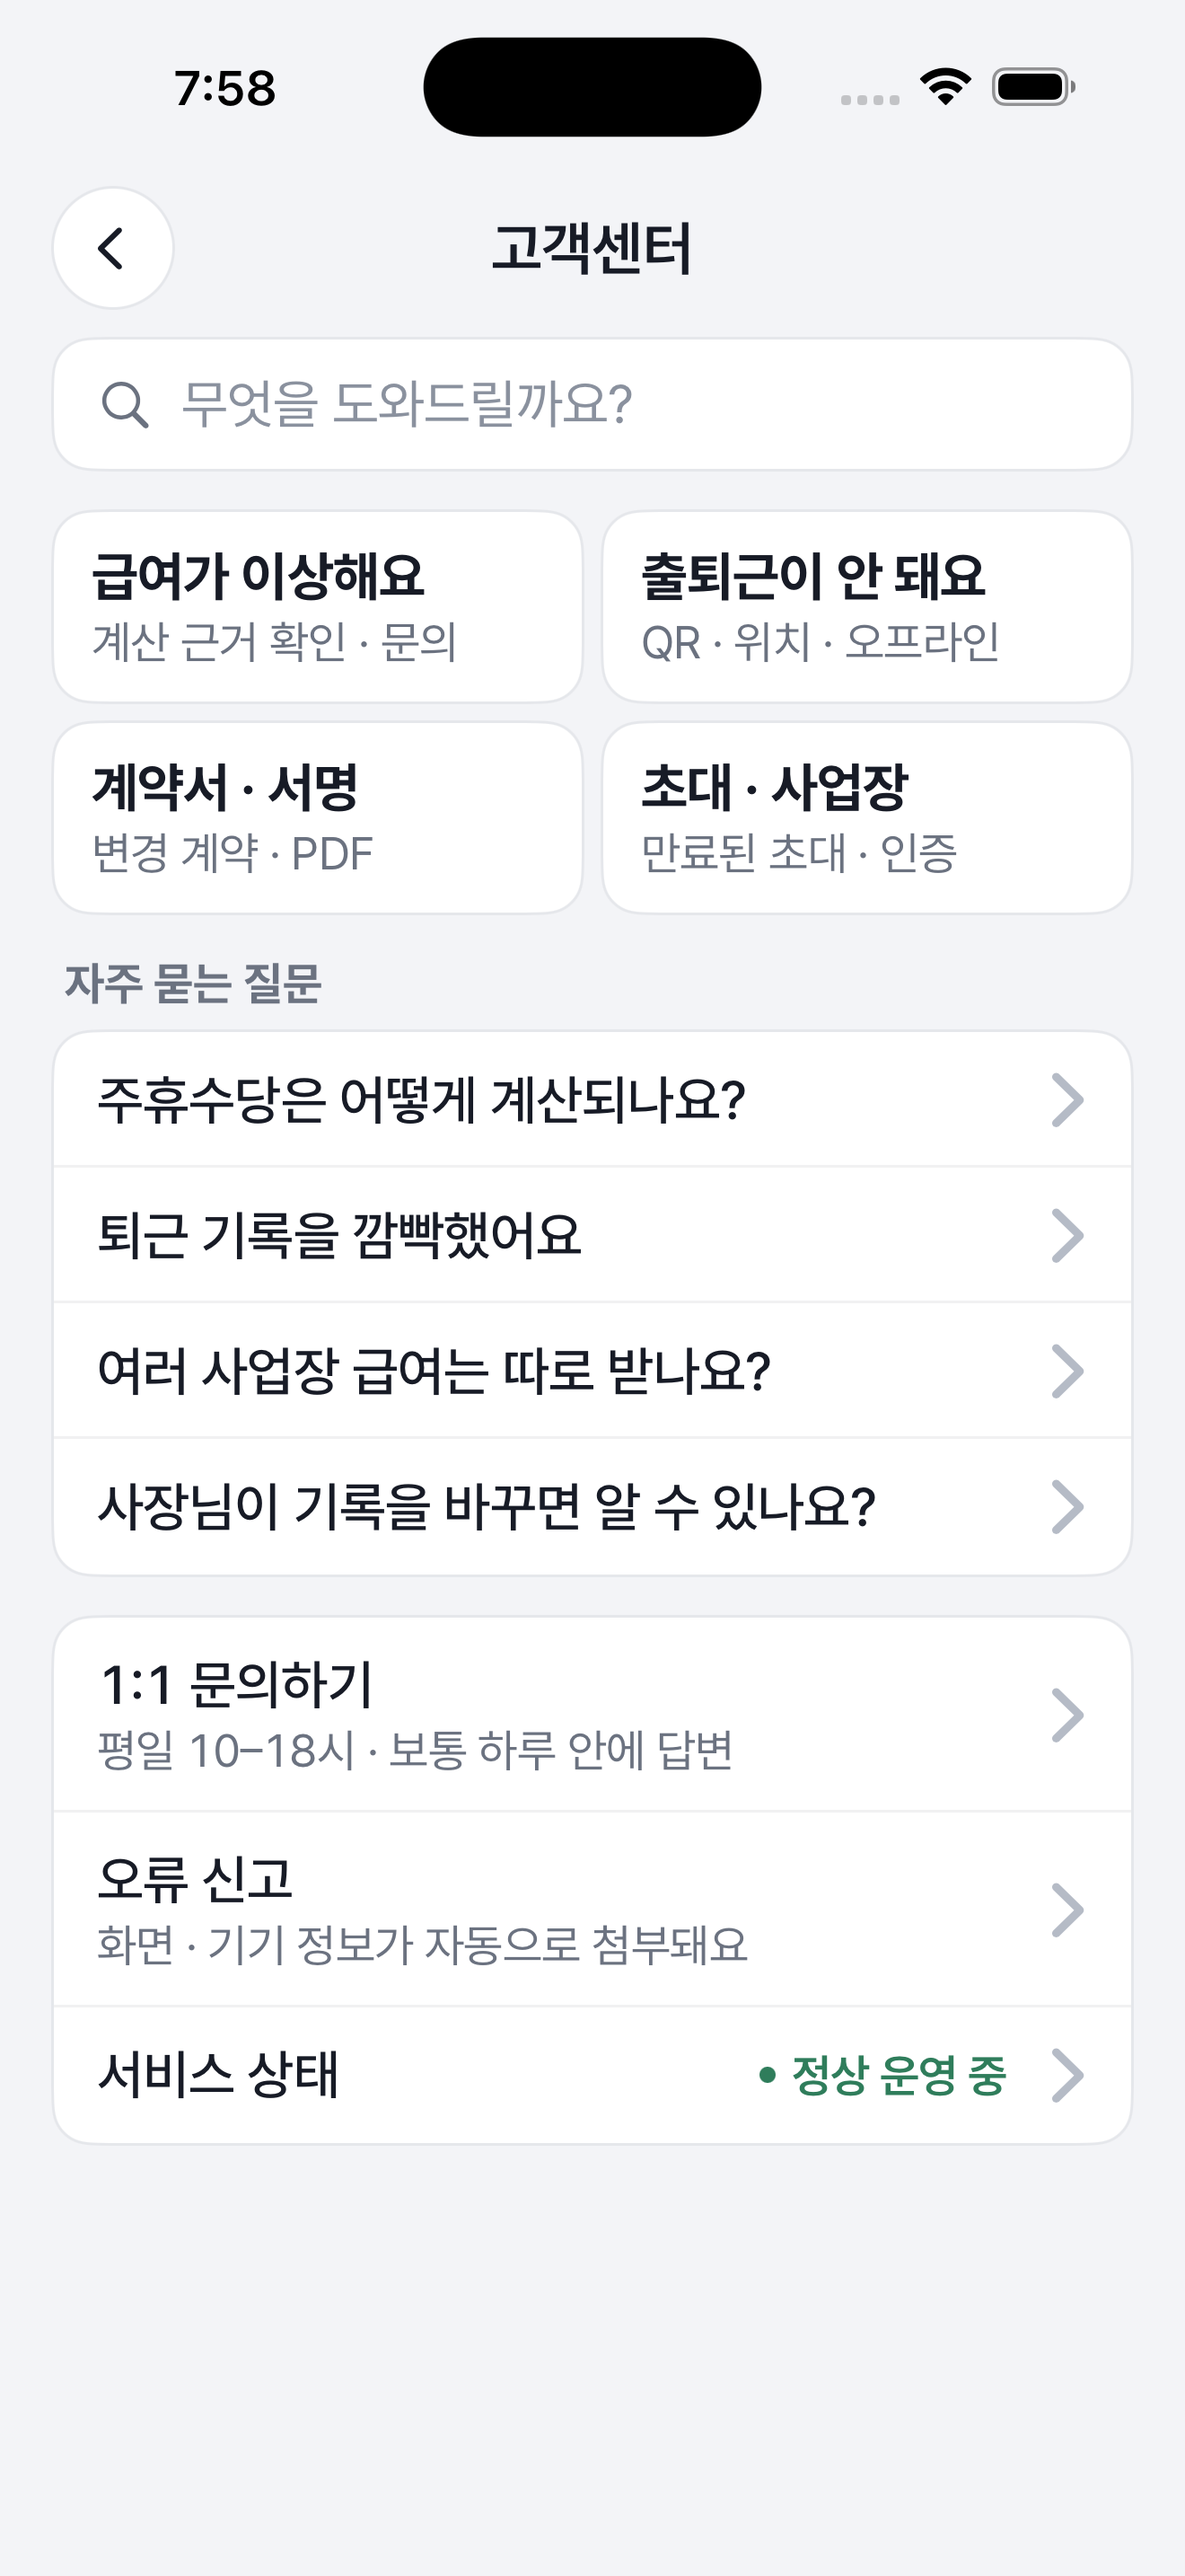
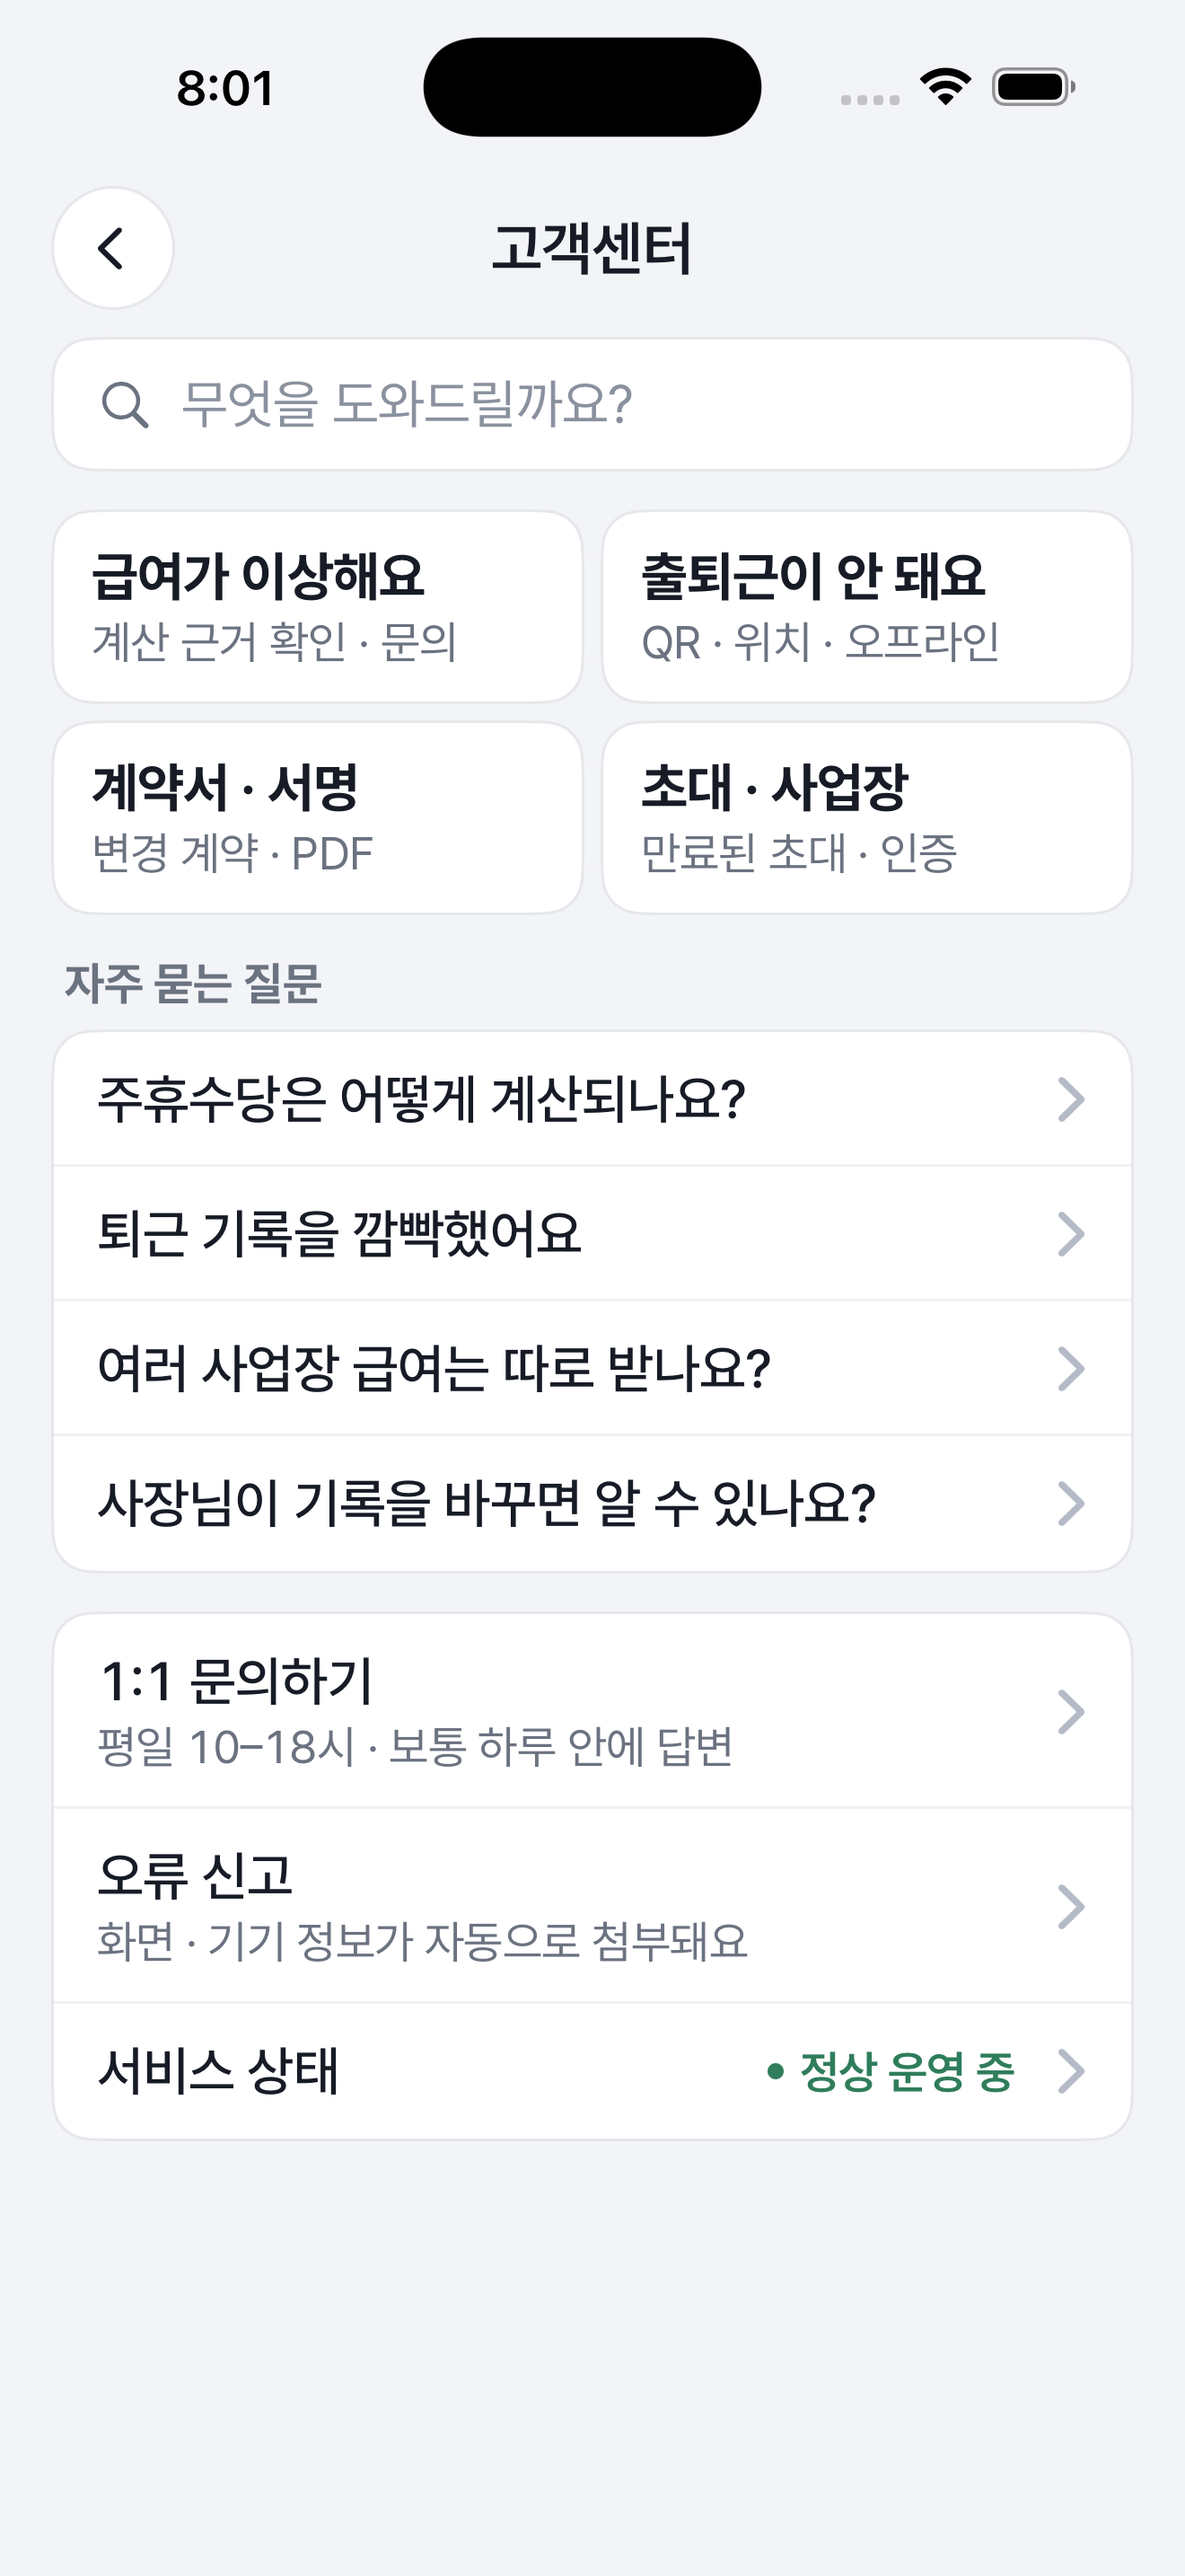
fix(account): 6m 화살표 크기 · 빈 검색어 보내지 않기
QA 반영 — 화살표를 다른 화면과 같은 footnote 크기로, 공백뿐인 검색어는 보내지 않음.

UI-IOS-6m · #338

diff --git a/Pum/Pum/Features/Account/HelpCenter/HelpCenterView.swift b/Pum/Pum/Features/Account/HelpCenter/HelpCenterView.swift
@@ -56,7 +56,7 @@ struct HelpCenterView: View {
                 .pumText(.body, weight: .regular)
                 .foregroundStyle(PumColor.textPrimary)
                 .submitLabel(.search)
-                .onSubmit { onSearch(query) } // 한글 조합 중 글자마다 보내지 않게 「검색」을 누를 때만
+                .onSubmit { let q = query.trimmingCharacters(in: .whitespaces); if !q.isEmpty { onSearch(q) } } // 한글 조합 중 글자마다 보내지 않게 「검색」을 누를 때만
                 .accessibilityLabel(Text(HelpCenterState.searchPlaceholder))
         }
         .padding(.horizontal, PumTokens.Space.s16)
@@ -190,7 +190,7 @@ struct HelpCenterView: View {
     }
 
     private var chevron: some View {
-        Image(systemName: "chevron.right").font(.body.weight(.semibold))
+        Image(systemName: "chevron.right").font(.footnote.weight(.semibold))
             .foregroundStyle(PumColor.textDisabled).accessibilityHidden(true)
     }
 }
